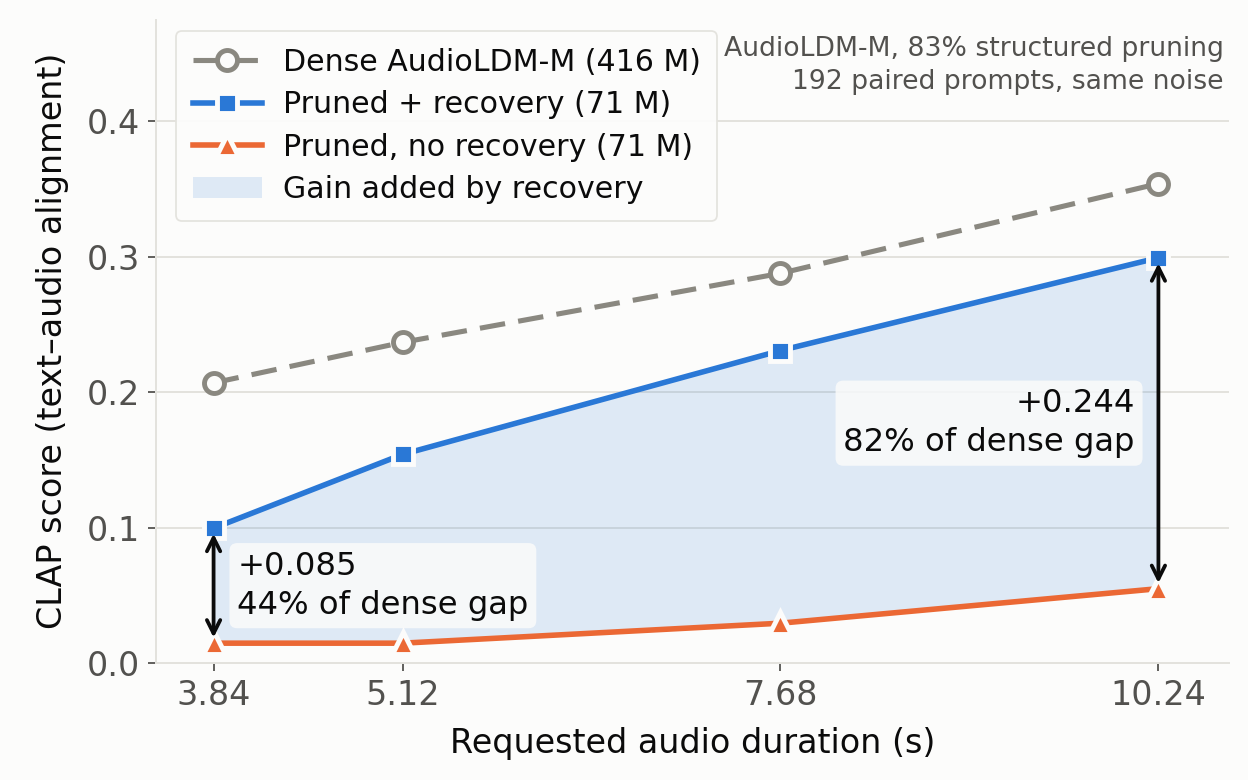
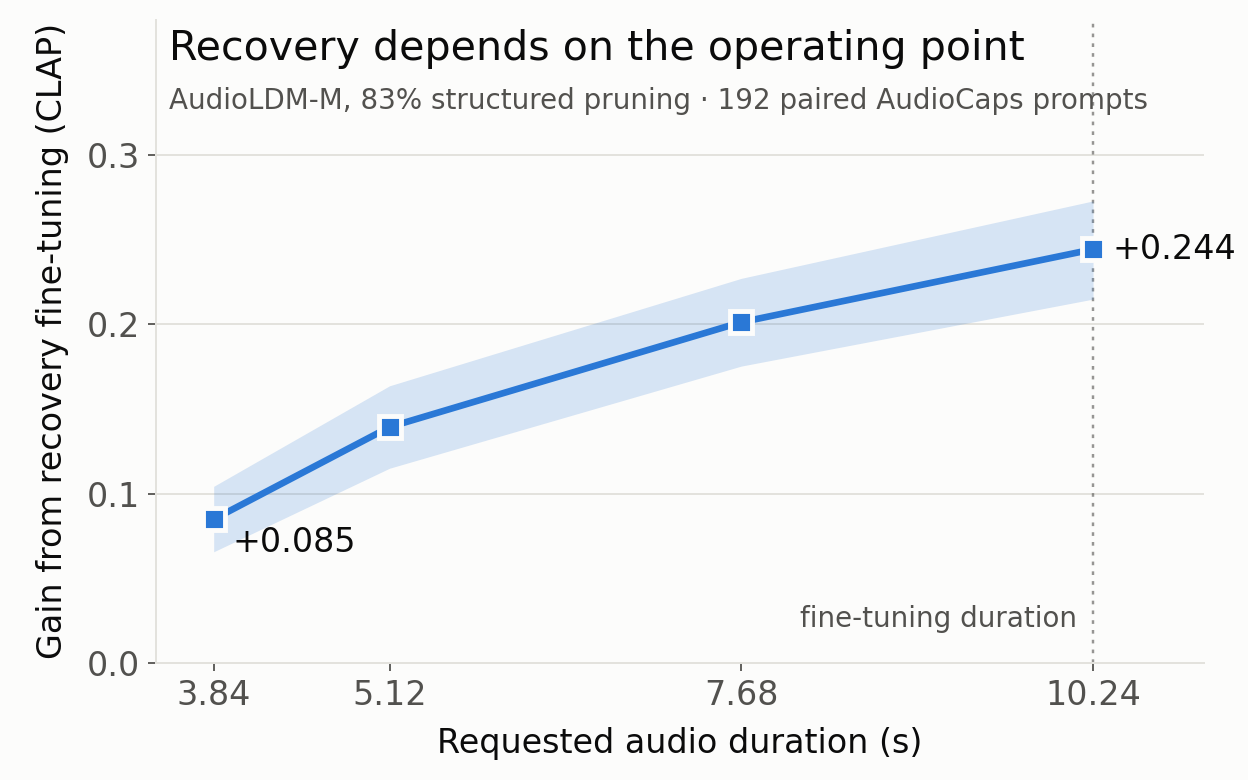
Website card figure redesigned for the portfolio preview: single recovery-gain series over duration (base + hip-hop variant), built from the frozen opsweep and pooled-anchor artifacts; annotation wording corrected against E1c (plateau, not peak) and E5 (Clotho transfers, so 'held-out disappears' is 

diff --git a/scripts/research/paper_figs/make_website_card_fig.py b/scripts/research/paper_figs/make_website_card_fig.py
@@ -1,8 +1,14 @@
 #!/usr/bin/env python3
 """Build the single-panel project-card figure for gbibbo.github.io (CPU, 0 cr).
 
+Narrative card: ONE series, the paired recovery gain R = CLAP(P+FT) - CLAP(P) of the
+83%-pruned checkpoint, over the requested-duration sweep. Absolute levels, the dense
+and real anchors, the chance floors and the rho_dense percentages are deliberately
+NOT drawn: they belong to the paper, and they cost the card reader too much work.
+
 Every number is READ from the frozen result artifacts, never typed by hand:
-  configs/research/draft5_opsweep_result.json  (severity-2 duration sweep, n=192)
+  configs/research/draft5_opsweep_result.json   (severity-2 duration sweep, n=192)
+  configs/research/r2_posthoc_pooled_anchors.json  (hip-hop battery, n=127)
 
 The card image is displayed by the site at aspect-ratio 16/10, object-fit: contain,
 in a box of clamp(300px, 38%, 370px) width, so the figure is authored at 16:10 with
@@ -18,39 +24,39 @@ import matplotlib
 
 matplotlib.use("Agg")
 import matplotlib.pyplot as plt
-from matplotlib.lines import Line2D
-from matplotlib.patches import Patch
 
 HERE = os.path.dirname(os.path.abspath(__file__))
 ROOT = os.path.dirname(os.path.dirname(os.path.dirname(HERE)))
 SRC = os.path.join(ROOT, "configs", "research", "draft5_opsweep_result.json")
+SRC_HH = os.path.join(ROOT, "configs", "research", "r2_posthoc_pooled_anchors.json")
 OUT_DIR = os.path.join(ROOT, "docs", "figs")
 OUT = os.path.join(OUT_DIR, "audioldm_recovery_operating_point.png")
 OUT_SVG = os.path.join(OUT_DIR, "audioldm_recovery_operating_point.svg")
+OUT_B = os.path.join(OUT_DIR, "audioldm_recovery_operating_point_domain.png")
+OUT_B_SVG = os.path.join(OUT_DIR, "audioldm_recovery_operating_point_domain.svg")
 
 # ---------------------------------------------------------------- data (frozen)
 sweep = json.load(open(SRC, encoding="utf-8"))
-by_dur = sweep["secondary"]["by_duration"]
+Rd = sweep["R_by_duration"]
 DURS = ["3.84", "5.12", "7.68", "10.24"]
 x = [float(d) for d in DURS]
-dense = [by_dur[d]["levels"]["dense"] for d in DURS]
-pft = [by_dur[d]["levels"]["PFT"] for d in DURS]
-prn = [by_dur[d]["levels"]["P"] for d in DURS]
-R = [by_dur[d]["R"]["point"] for d in DURS]
-rho = [by_dur[d]["rho_dense"]["point"] for d in DURS]
-n = by_dur["10.24"]["R"]["n"]
+R = [Rd[d]["point"] for d in DURS]
+Rlo = [Rd[d]["lo"] for d in DURS]
+Rhi = [Rd[d]["hi"] for d in DURS]
+n = Rd["10.24"]["n"]
+FT_DURATION = 10.24  # the released recovery was fine-tuned at the native duration
+
+hh = json.load(open(SRC_HH, encoding="utf-8"))["hiphop_127"]
+hh_R = [hh["3.84"]["R_pooled"]["point"], hh["10.24"]["R_pooled"]["point"]]
+hh_n = hh["10.24"]["R_pooled"]["n"]
+HH_X = [3.84, 10.24]  # the hip-hop battery has only the two endpoint durations
 
 # ------------------------------------------------------------------- palette
-# Two categorical hues (validated: all checks PASS, all-pairs, light surface)
-# plus a neutral for the dense reference series, which is also dashed + labelled,
-# so identity is never carried by colour alone.
 SURFACE = "#fcfcfb"
 INK = "#0b0b0b"
 INK_2 = "#52514e"
 GRID = "#e3e2dd"
-BLUE = "#2a78d6"   # slot 1 - pruned + recovery
-ORANGE = "#eb6834"  # slot 2 - pruned, no recovery
-NEUTRAL = "#8a8880"  # reference series (dense)
+BLUE = "#2a78d6"  # categorical slot 1 - the single series
 
 plt.rcParams.update({
     "font.family": "DejaVu Sans",
@@ -65,76 +71,75 @@ plt.rcParams.update({
     "savefig.facecolor": SURFACE,
 })
 
-fig, ax = plt.subplots(figsize=(7.8, 4.875))  # 16:10
-fig.subplots_adjust(left=0.125, right=0.985, top=0.975, bottom=0.15)
 
-# recovery gain: the band between the pruned model and the same model after recovery
-ax.fill_between(x, prn, pft, color=BLUE, alpha=0.14, linewidth=0, zorder=1)
 
-ax.plot(x, dense, color=NEUTRAL, lw=2.3, ls=(0, (5, 2.6)), marker="o", ms=9,
-        mfc=SURFACE, mew=2.2, mec=NEUTRAL, zorder=3)
-ax.plot(x, pft, color=BLUE, lw=2.5, marker="s", ms=9, mfc=BLUE, mec=SURFACE,
-        mew=2.2, zorder=4)
-ax.plot(x, prn, color=ORANGE, lw=2.5, marker="^", ms=10, mfc=ORANGE, mec=SURFACE,
-        mew=2.2, zorder=4)
+def build(out_png, out_svg, with_hiphop=False):
+    """Render the card. with_hiphop adds the flat out-of-domain music series."""
+    fig, ax = plt.subplots(figsize=(7.8, 4.875))  # 16:10
+    fig.subplots_adjust(left=0.125, right=0.965, top=0.975, bottom=0.15)
 
-# selective direct labels: the two endpoints of the sweep only
-for i, ha, dx in ((0, "left", 0.16), (3, "right", -0.16)):
-    ax.annotate("", xy=(x[i], pft[i]), xytext=(x[i], prn[i]),
-                arrowprops=dict(arrowstyle="<->", color=INK, lw=1.7,
-                                shrinkA=2.5, shrinkB=2.5), zorder=5)
-    ax.text(x[i] + dx, (pft[i] + prn[i]) / 2,
-            f"+{R[i]:.3f}\n{100 * rho[i]:.0f}% of dense gap",
-            ha=ha, va="center", fontsize=14.5, color=INK, linespacing=1.32,
-            zorder=6,
-            bbox=dict(boxstyle="round,pad=0.24", fc=SURFACE, ec="none", alpha=0.82))
+    # fine-tuning duration guide, recessive and behind the series
+    ax.axvline(FT_DURATION, color=INK_2, lw=1.1, ls=(0, (1.5, 2.5)), alpha=0.6,
+               zorder=2)
+    # in the domain variant the flat hip-hop series occupies the bottom strip,
+    # so the guide label moves above the confidence band instead
+    guide_y = 0.312 if with_hiphop else 0.018
+    guide_va = "top" if with_hiphop else "bottom"
+    ax.text(FT_DURATION - 0.12, guide_y, "fine-tuning duration", ha="right",
+            va=guide_va, fontsize=12.5, color=INK_2, zorder=6)
 
-handles = [
-    Line2D([], [], color=NEUTRAL, lw=2.3, ls=(0, (5, 2.6)), marker="o", ms=9,
-           mfc=SURFACE, mew=2.2, mec=NEUTRAL, label="Dense AudioLDM-M (416 M)"),
-    Line2D([], [], color=BLUE, lw=2.5, ls="-", marker="s", ms=9, mfc=BLUE,
-           mec=SURFACE, mew=2.2, label="Pruned + recovery (71 M)"),
-    Line2D([], [], color=ORANGE, lw=2.5, ls="-", marker="^", ms=10, mfc=ORANGE,
-           mec=SURFACE, mew=2.2, label="Pruned, no recovery (71 M)"),
-    Patch(facecolor=BLUE, alpha=0.14, label="Gain added by recovery"),
-]
-leg = ax.legend(handles=handles, loc="upper left", bbox_to_anchor=(0.005, 1.005),
-                fontsize=13.5, frameon=True, framealpha=0.94, edgecolor=GRID,
-                facecolor=SURFACE, borderpad=0.55, labelspacing=0.45,
-                handlelength=2.3, handletextpad=0.7)
-leg.get_frame().set_linewidth(0.8)
-for t in leg.get_texts():
-    t.set_color(INK)
+    # 95% prompt-bootstrap interval: present but visually secondary
+    ax.fill_between(x, Rlo, Rhi, color=BLUE, alpha=0.18, linewidth=0, zorder=3)
+    ax.plot(x, R, color=BLUE, lw=3.0, marker="s", ms=10, mfc=BLUE, mec=SURFACE,
+            mew=2.2, zorder=5)
 
-ax.set_xlabel("Requested audio duration (s)", labelpad=7)
-ax.set_ylabel("CLAP score (text–audio alignment)", labelpad=8)
-ax.set_xticks(x)
-ax.set_xticklabels(DURS)
-ax.set_xlim(3.45, 10.72)
-ax.set_ylim(0.0, 0.475)
-ax.set_yticks([0.0, 0.1, 0.2, 0.3, 0.4])
-ax.yaxis.grid(True, color=GRID, lw=0.9, zorder=0)
-ax.set_axisbelow(True)
-for s in ("top", "right"):
-    ax.spines[s].set_visible(False)
-for s in ("left", "bottom"):
-    ax.spines[s].set_linewidth(0.9)
+    # selective direct labels: the two endpoints only
+    ax.text(x[0] + 0.14, R[0] - 0.004, f"+{R[0]:.3f}", ha="left", va="top",
+            fontsize=15, color=INK, zorder=6)
+    ax.text(x[-1] + 0.14, R[-1], f"+{R[-1]:.3f}", ha="left", va="center",
+            fontsize=15, color=INK, zorder=6)
 
-ax.text(0.995, 0.975,
-        f"AudioLDM-M, 83% structured pruning\n{n} paired prompts, same noise",
-        transform=ax.transAxes, ha="right", va="top", fontsize=12, color=INK_2,
-        linespacing=1.35)
+    # headline, inside the plot, in the empty upper-left corner
+    ax.text(0.012, 0.985, "Recovery depends on the operating point",
+            transform=ax.transAxes, ha="left", va="top", fontsize=18.5, color=INK)
+    ax.text(0.012, 0.895,
+            f"AudioLDM-M, 83% structured pruning · {n} paired AudioCaps prompts",
+            transform=ax.transAxes, ha="left", va="top", fontsize=12.5, color=INK_2)
+
+    ax.set_xlabel("Requested audio duration (s)", labelpad=7)
+    ax.set_ylabel("Gain from recovery fine-tuning (CLAP)", labelpad=8)
+    ax.set_xticks(x)
+    ax.set_xticklabels(DURS)
+    ax.set_xlim(3.42, 11.05)
+    ax.set_ylim(0.0, 0.380)
+    ax.set_yticks([0.0, 0.1, 0.2, 0.3])
+    ax.yaxis.grid(True, color=GRID, lw=0.9, zorder=0)
+    ax.set_axisbelow(True)
+    for s in ("top", "right"):
+        ax.spines[s].set_visible(False)
+    for s in ("left", "bottom"):
+        ax.spines[s].set_linewidth(0.9)
+
+    if with_hiphop:
+        ax.plot(HH_X, hh_R, color=INK_2, lw=2.2, ls=(0, (5, 2.4)), marker="o",
+                ms=8, mfc=SURFACE, mec=INK_2, mew=2.0, zorder=4)
+        ax.text(HH_X[0] + 0.16, hh_R[0] + 0.012,
+                f"hip-hop prompts (n = {hh_n})", ha="left", va="bottom",
+                fontsize=12.5, color=INK_2, zorder=6)
+
+    fig.savefig(out_png, dpi=160)
+    matplotlib.rcParams["svg.fonttype"] = "path"  # no font dependency in the browser
+    fig.savefig(out_svg)
+    plt.close(fig)
+    return hashlib.sha256(open(out_png, "rb").read()).hexdigest()
+
 
 os.makedirs(OUT_DIR, exist_ok=True)
-fig.savefig(OUT, dpi=160)
-matplotlib.rcParams["svg.fonttype"] = "path"  # no font dependency in the browser
-fig.savefig(OUT_SVG)
-plt.close(fig)
-
-digest = hashlib.sha256(open(OUT, "rb").read()).hexdigest()
+digest = build(OUT, OUT_SVG, with_hiphop=False)
+digest_b = build(OUT_B, OUT_B_SVG, with_hiphop=True)
 print(f"wrote {os.path.relpath(OUT, ROOT)}  sha256={digest[:16]}")
-print(f"wrote {os.path.relpath(OUT_SVG, ROOT)}  "
-      f"sha256={hashlib.sha256(open(OUT_SVG, 'rb').read()).hexdigest()[:16]}")
+print(f"wrote {os.path.relpath(OUT_B, ROOT)}  sha256={digest_b[:16]}  (domain variant)")
 print(f"  source artifact sha256={sweep['artifact_sha256'][:16]}")
-for d, gp, gr in zip(DURS, R, rho):
-    print(f"  {d:>5} s  R={gp:+.3f}  rho_dense={100 * gr:.0f}%")
+for d, pt, lo, hi in zip(DURS, R, Rlo, Rhi):
+    print(f"  {d:>5} s  R={pt:+.3f} [{lo:+.3f},{hi:+.3f}]")
+print(f"  hip-hop (n={hh_n}): {hh_R[0]:+.3f} at 3.84 s, {hh_R[1]:+.3f} at 10.24 s")

diff --git a/docs/website_card_texts.md b/docs/website_card_texts.md
@@ -36,20 +36,42 @@ Optional longer third sentence, if the falsification is worth the extra words:
 
 ## Figure
 
-`docs/figs/audioldm_recovery_operating_point.{png,svg}`, built by
-`scripts/research/paper_figs/make_website_card_fig.py` (CPU, 0 cr).
+Two renders, same data, both built by `scripts/research/paper_figs/make_website_card_fig.py`
+(CPU, 0 cr) and both 16:10 for the site's `.selected-media` box
+(`aspect-ratio: 16/10`, `object-fit: contain`, `clamp(300px, 38%, 370px)` wide).
+The SVGs have text converted to paths, so they need no web font.
 
-* 16:10, matching the site's `.selected-media` box (`aspect-ratio: 16/10`,
-  `object-fit: contain`, `clamp(300px, 38%, 370px)` wide). Type is sized to stay
-  legible at 370 px; the SVG has text converted to paths, so it needs no web font.
-* Every plotted value is read from the frozen artifact
-  `configs/research/draft5_opsweep_result.json`
-  (`artifact_sha256 = 3c4b8147db943f15…`), never typed by hand:
-  `secondary.by_duration[d].levels` for the three curves, `.R.point` for the
-  annotated gains, `.rho_dense.point` for the percentages.
-* What it shows: absolute CLAP for the dense reference, the 83%-pruned checkpoint,
-  and the same checkpoint after the released recovery fine-tuning, over the
-  requested-duration sweep. The shaded band is the paired recovery gain, annotated
-  at both endpoints (+0.085 / 44% of the dense gap at 3.84 s; +0.244 / 82% at
-  10.24 s) — i.e. the headline of the manuscript, that recovery gain is
-  operating-point dependent.
+| File | What it adds |
+|---|---|
+| `docs/figs/audioldm_recovery_operating_point.{png,svg}` | One series: the paired recovery gain over the duration sweep. |
+| `docs/figs/audioldm_recovery_operating_point_domain.{png,svg}` | Same, plus the flat out-of-domain hip-hop series (recommended). |
+
+Design: a single panel, `y = R = CLAP(P+FT) − CLAP(P)` for the 83%-pruned
+checkpoint, `x` = requested duration, four points on a clearly rising line, the
+95% prompt-bootstrap interval as a recessive band, a dotted guide at the
+fine-tuning duration, and the headline *"Recovery depends on the operating point"*
+inside the plot. Absolute CLAP levels, the dense and real anchors, the chance
+floors and the ρ_dense percentages are deliberately omitted — correct for the
+paper, too much work for a portfolio preview.
+
+Every plotted value is read from frozen artifacts, never typed by hand:
+`configs/research/draft5_opsweep_result.json` (`artifact_sha256 = 3c4b8147db943f15…`)
+for `R_by_duration` (point, lo, hi, n = 192), and
+`configs/research/r2_posthoc_pooled_anchors.json` for the pooled hip-hop gains
+(n = 127).
+
+### Two accuracy notes on the annotations
+
+* **"fine-tuning duration" at 10.24 s is correct** (the released recovery was
+  fine-tuned at the native duration), but the guide must not be allowed to read as
+  a *peak*: E1c gives `D4 = R(15.36) − R(10.24) = +0.021 [−0.023, +0.067]`,
+  reading PLATEAU, and the ledger states plainly that "peaked at the fine-tuning
+  duration" is not supported. The guide is drawn inside the axis, not at the plot
+  edge, and nothing in the figure claims a maximum.
+* **"held-out domain: recovery largely disappears" would be wrong.** Clotho is
+  held out and still gives `R = +0.210 [+0.176, +0.243]` at 10.24 s, close to
+  AudioCaps; the ledger records that "recovery transfers to held-out Clotho, so the
+  hip-hop null is a content/style artefact, not 'recovers only on AudioCaps'".
+  What collapses is the *music* battery specifically: hip-hop gives `+0.026` at
+  3.84 s and `+0.027` at 10.24 s. The variant therefore labels that series
+  "hip-hop prompts (n = 127)" and claims nothing about held-out domains in general.

diff --git a/PROGRESS.md b/PROGRESS.md
@@ -81,6 +81,8 @@
 
 ## LOG
 
+* **2026-09-06 (MVD 18:3x) — WEBSITE-CARD REDESIGN (CPU, 0 cr).** Card figure rebuilt on Gabriel's brief: single panel, `y = R = CLAP(P+FT) − CLAP(P)` (no absolute levels / dense / real / floors / ρ), four sev-2 durations on a rising line, 95% bootstrap band recessive, dotted guide at the fine-tuning duration, headline "Recovery depends on the operating point" inside the plot. Two renders from `make_website_card_fig.py`: base and a `_domain` variant adding the flat hip-hop series (+0.026 / +0.027, n=127). **Two annotation corrections against the record:** the 10.24 s guide is factually the FT duration but must not read as a peak (E1c `D4 +0.021 [−0.023,+0.067]` = PLATEAU); and "held-out domain: recovery largely disappears" is contradicted by Clotho (`R +0.210 [+0.176,+0.243]`), so the variant labels that series "hip-hop prompts" and claims nothing about held-out domains in general. Values read from `draft5_opsweep_result.json` + `r2_posthoc_pooled_anchors.json`. Notes in `docs/website_card_texts.md`. No new experiment, no spend.
+
 * **2026-09-06 (MVD 18:0x) — WEBSITE-CARD (CPU, 0 cr).** Project-card asset for gbibbo.github.io built from frozen artifacts: `scripts/research/paper_figs/make_website_card_fig.py` renders `docs/figs/audioldm_recovery_operating_point.{png,svg}` (16:10, matched to the site's `.selected-media` box) reading every plotted value from `configs/research/draft5_opsweep_result.json` (`artifact_sha256` 3c4b8147db943f15…) — the three level curves (dense / P / P+FT) over the duration sweep with the paired recovery band annotated at both endpoints (+0.085, 44% of the dense gap at 3.84 s; +0.244, 82% at 10.24 s). Card copy (title, description, 5 keywords) in `docs/website_card_texts.md`. The asset files themselves landed inside `b199a7f` (staged concurrently with the REVIEW3-DENSERAW commit). No new experiment, no spend.
 
 * **2026-09-06 (MVD 18:00→18:07) — REVIEW3-DENSERAW-FREEZE + LAUNCH.** Gabriel GO on a 4-cr top-up; addendum `docs/review3_denseraw.md` frozen (sidecar) and `run_r3_denseraw.sh` committed at `c186572`; dense_raw CPU dry-runs PASS at latent 96/256; job `r3-denseraw` launched 21:07 UTC (T4, cap 2.6 cr / 180 min, in-job timeouts). Scoring/verdict pending on CPU after settlement.
